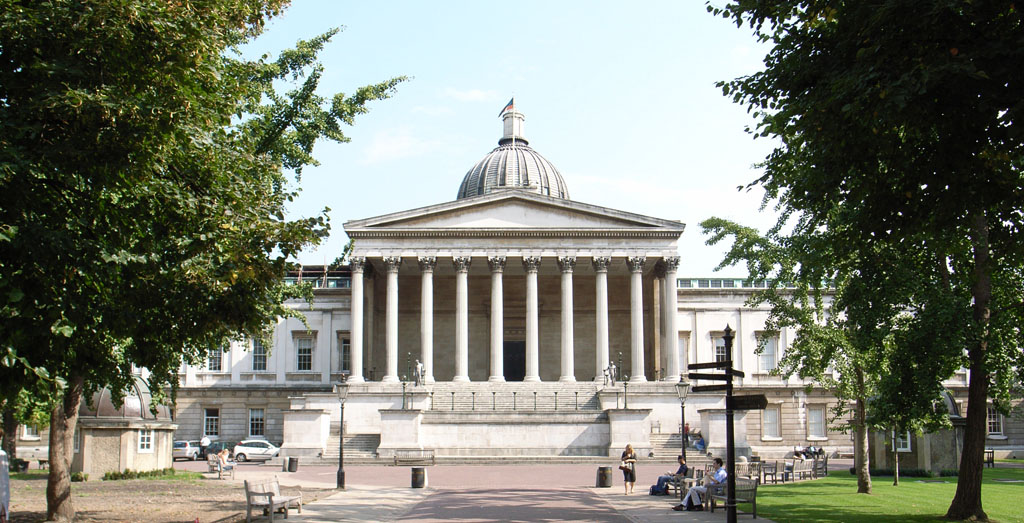
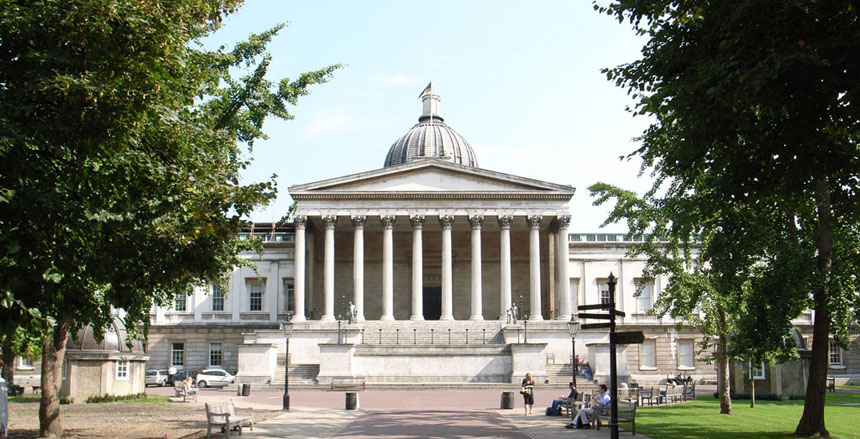
w

Changed region(s): [[0.7558, 0.0296, 0.786, 0.0592], [0.7256, 0.1777, 0.7558, 0.2073], [0.2721, 0.2073, 0.3023, 0.2369]]

diff --git a/css/style.css b/css/style.css
@@ -16,7 +16,7 @@ body {
      margin-top: 10px;
      overflow: hidden;
      padding: 5px 20px 40px;
-     width: 1000px;
+     width: 760px;
 }
 
 
@@ -81,7 +81,7 @@ h2 {
      margin-left: 10%;
      margin-right: 10%;
      margin-top: 10px;
-     width: 1024px;
+     width: 800px;
 }
 #img {
      box-shadow: 0px 4px 10px 0px rgba(119, 119, 119, 0.5);
